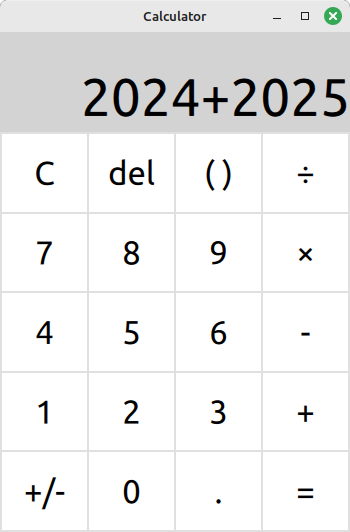
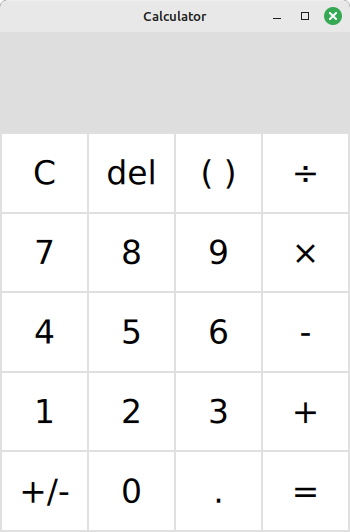
Changed Project Structure

diff --git a/resources/qml/Calculator.qml b/resources/qml/Calculator.qml
@@ -8,7 +8,7 @@ Rectangle{
 
     Rectangle{
         id: screenArea
-        color: "lightgrey"
+        color: "#dedede"
         anchors.top: root.top
         width: root.width
         height: root.height * 0.2

diff --git a/src/main.cpp b/src/main.cpp
@@ -9,7 +9,7 @@ int main(int argc, char *argv[])
 
     QQuickView *view = new QQuickView;
 
-    view->setSource(QUrl("qrc:/qml/calculator.qml"));
+    view->setSource(QUrl("qrc:/qml/Calculator.qml"));
 
     view->setTitle("Calculator");
 
